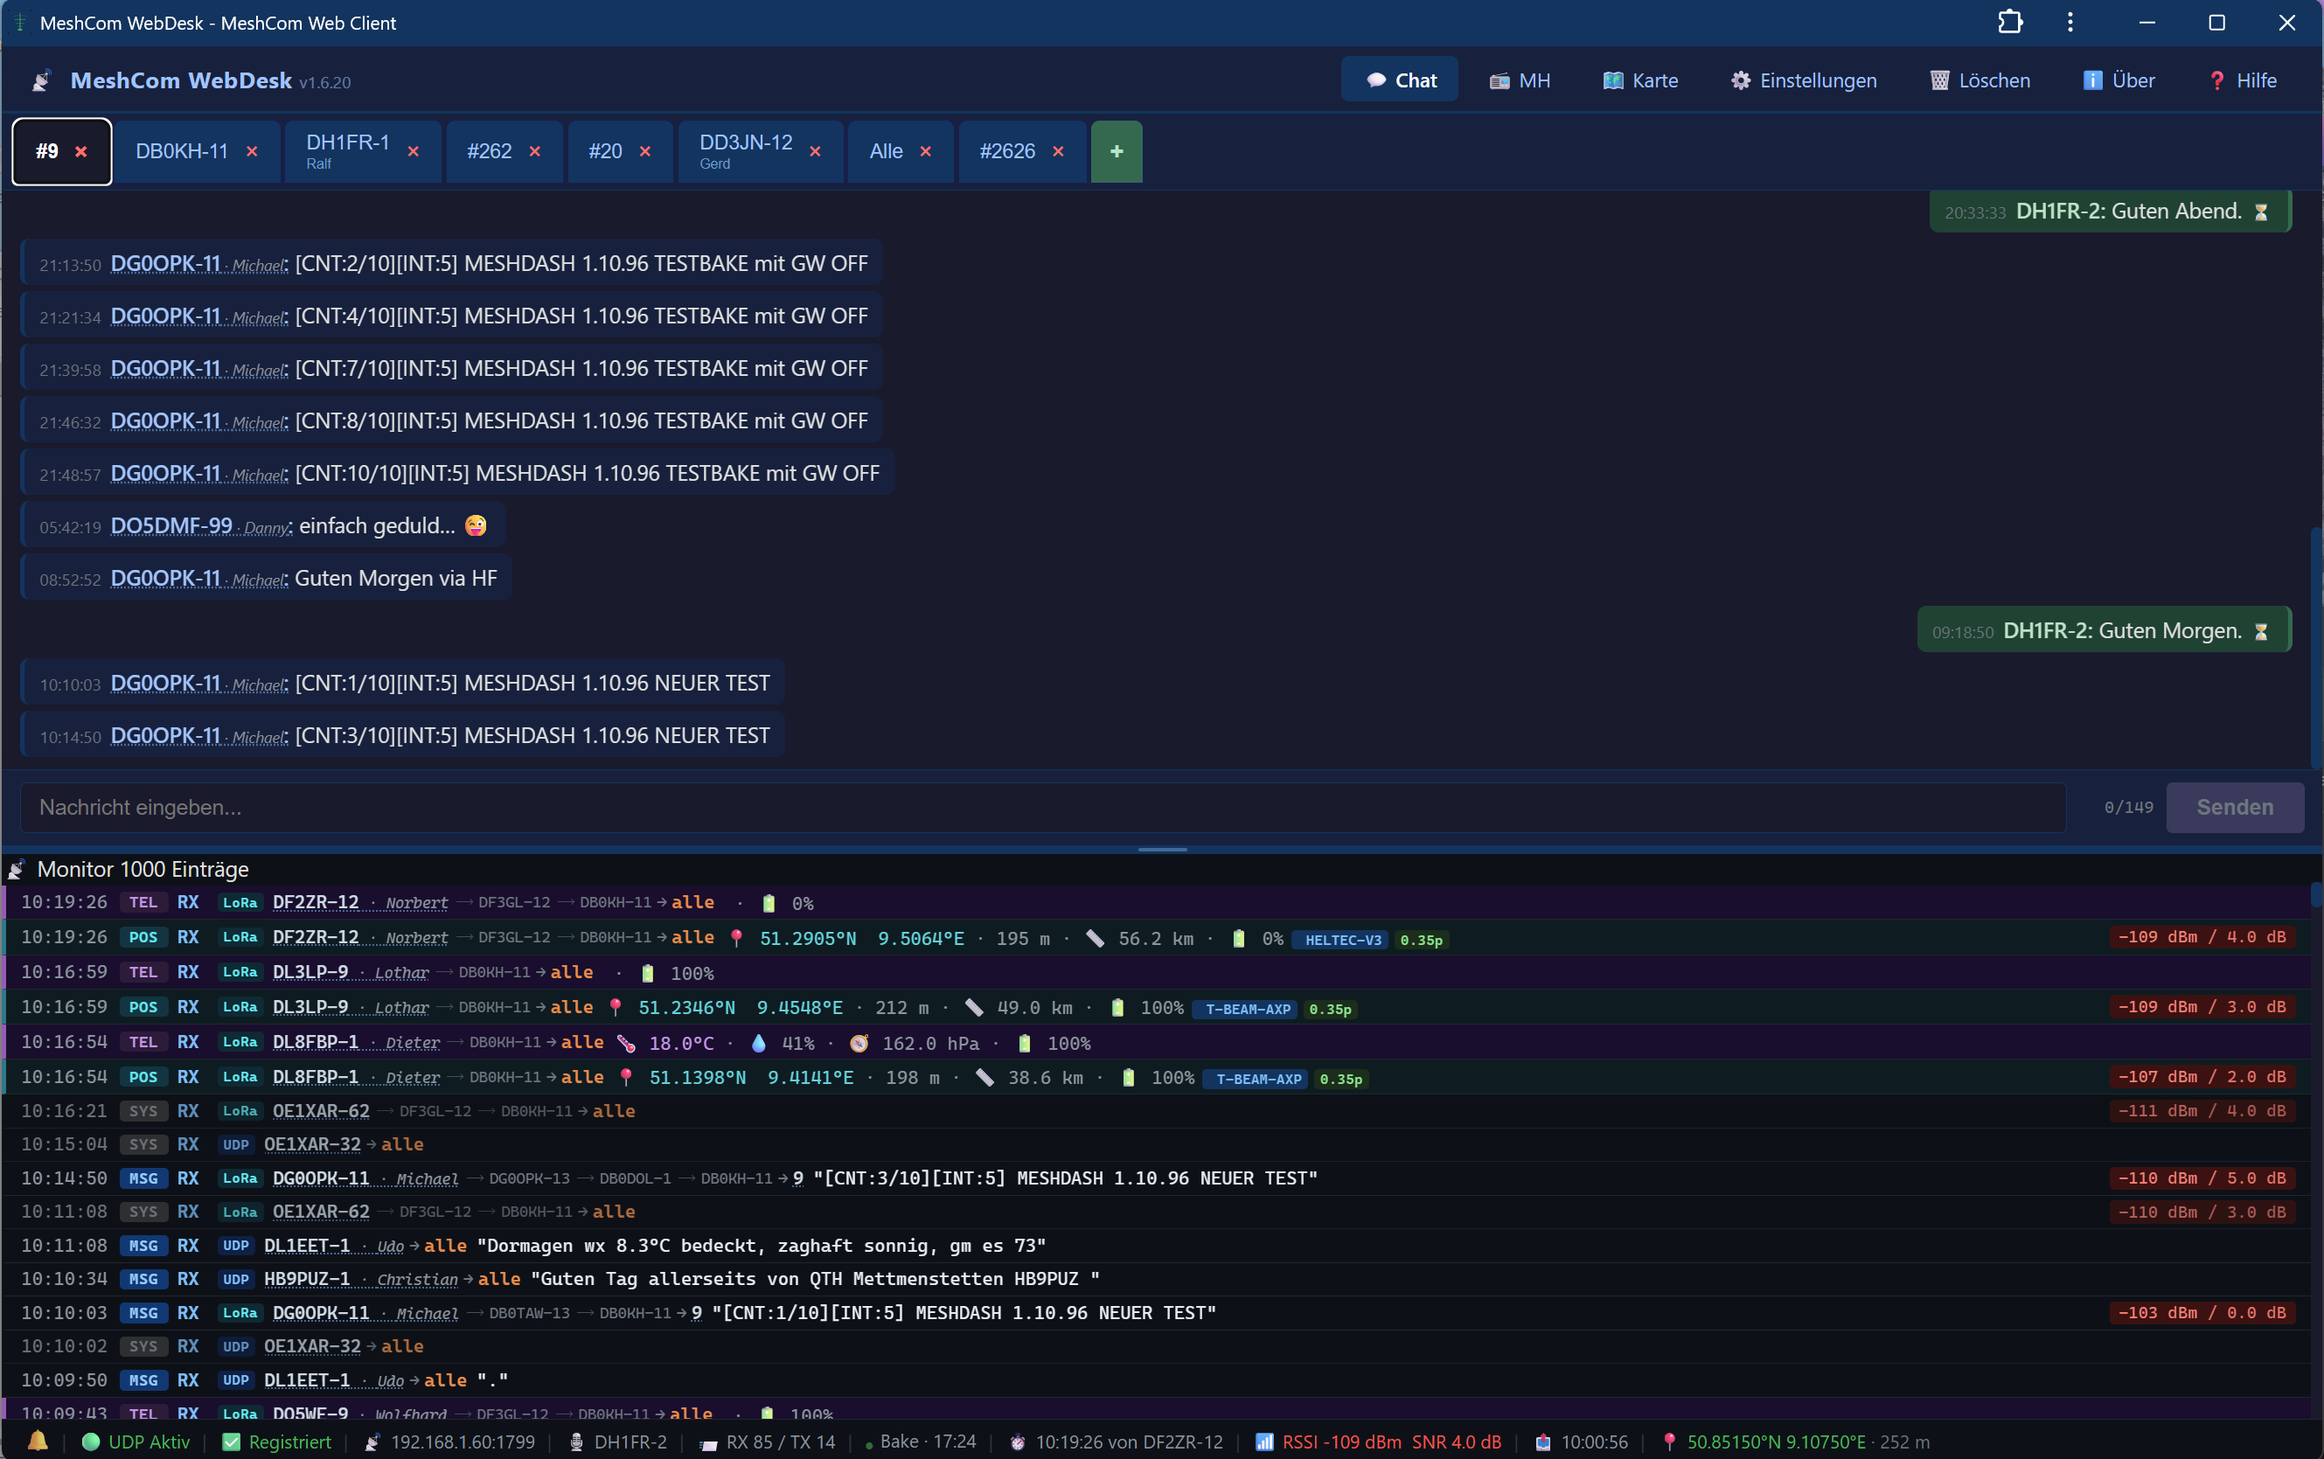
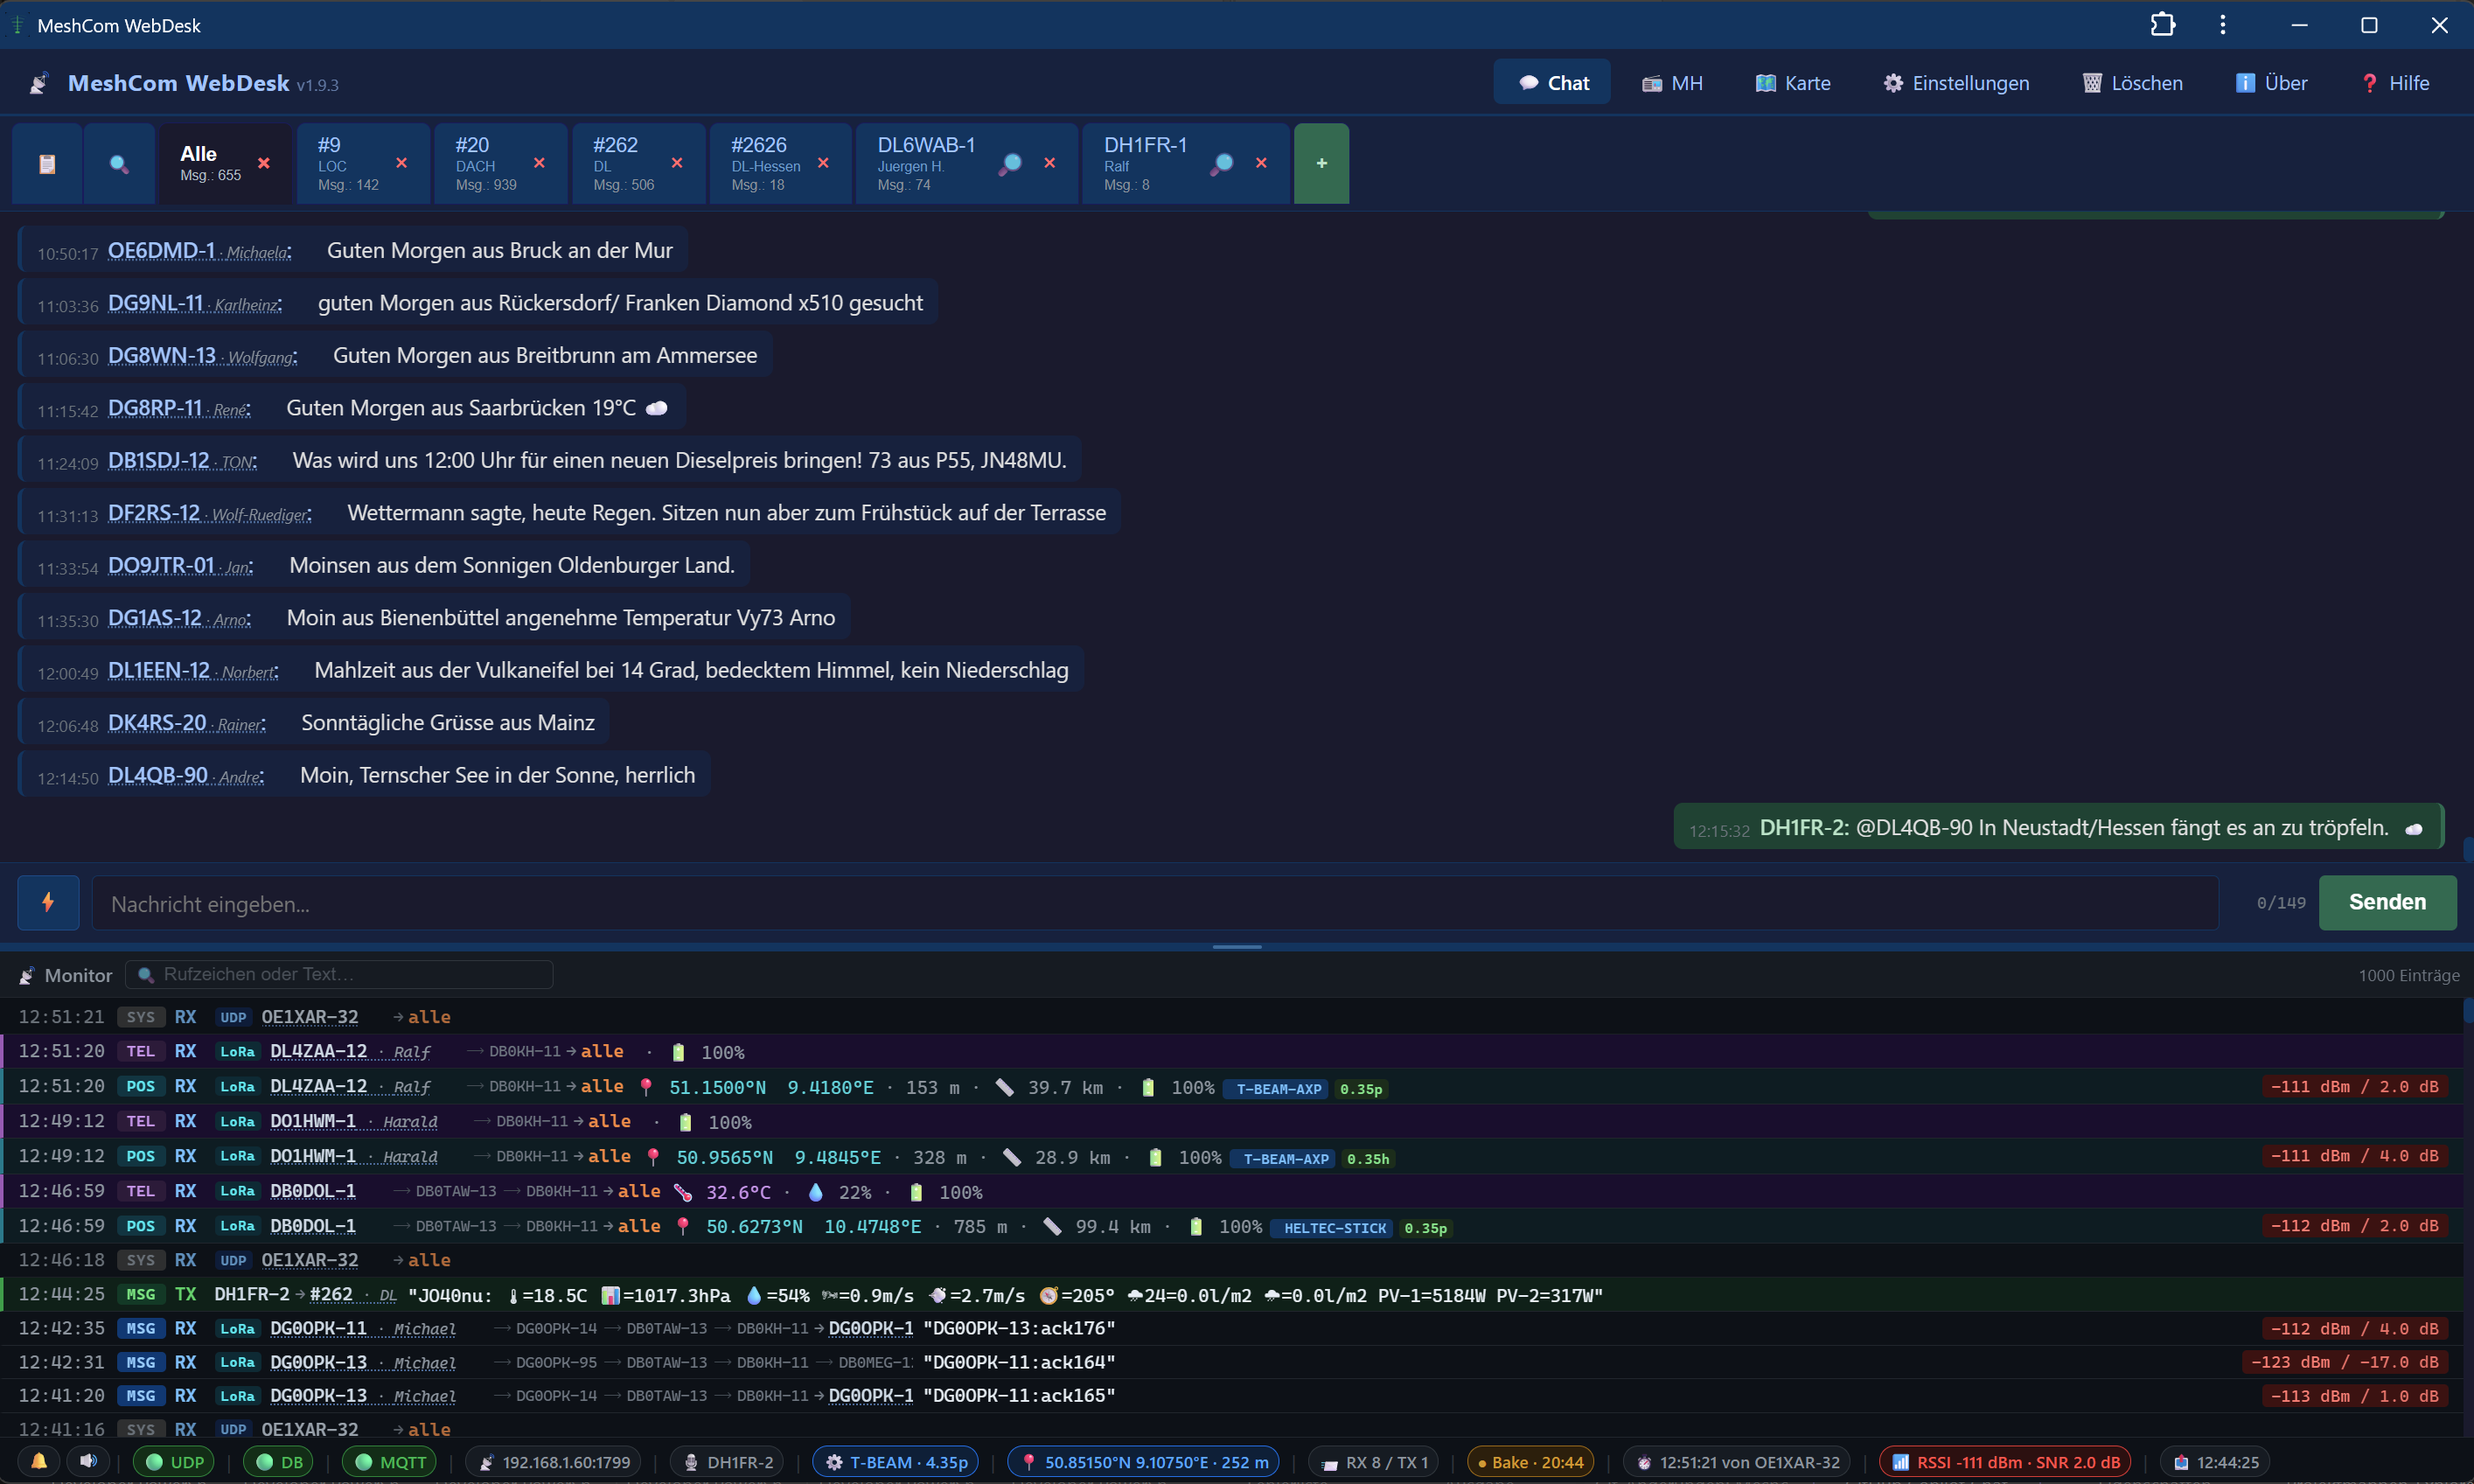
docs: Screenshots aktualisiert, Screenshot-AI-Search.png ergaenzt

Changed region(s): [[0.0, 0.0, 1.0, 1.0]]

diff --git a/README.md b/README.md
@@ -49,7 +49,9 @@ The application runs on **Windows** or **Linux** and makes a full web client for
 
 <video src="docs/MeshComWebDesk.mp4" controls width="100%"></video>
 
-![MeshCom Web Client](docs/screenshot.png?v=2)
+![MeshCom Web Client](docs/screenshot.png?v=3)
+
+![MeshCom AI Search](docs/Screenshot-AI-Search.png)
 
 ![MeshCom Live Map](docs/Screenshot_Map.png)
 
